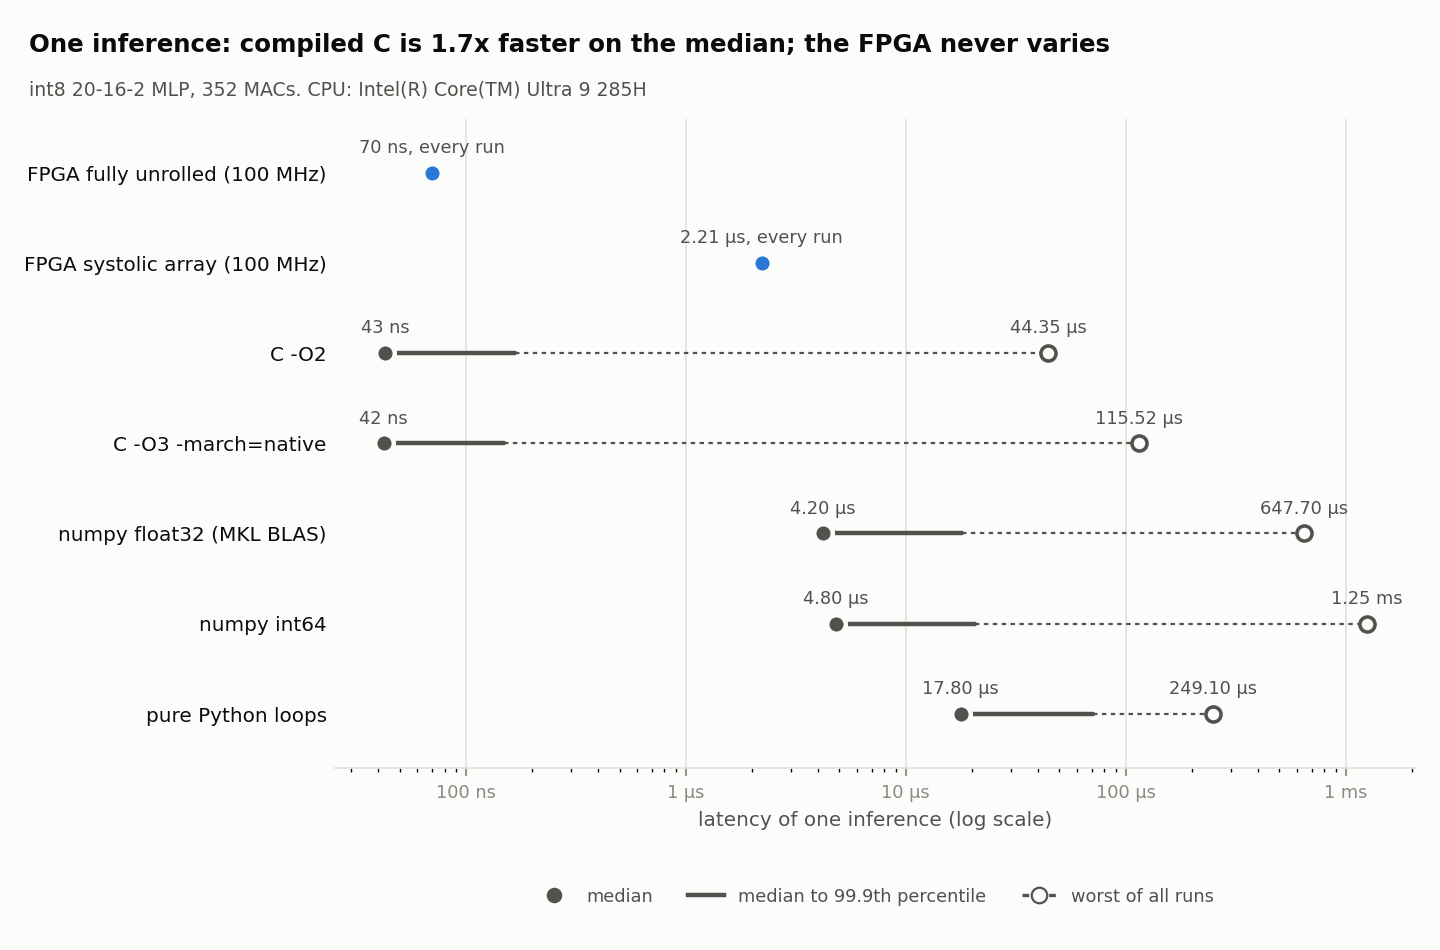
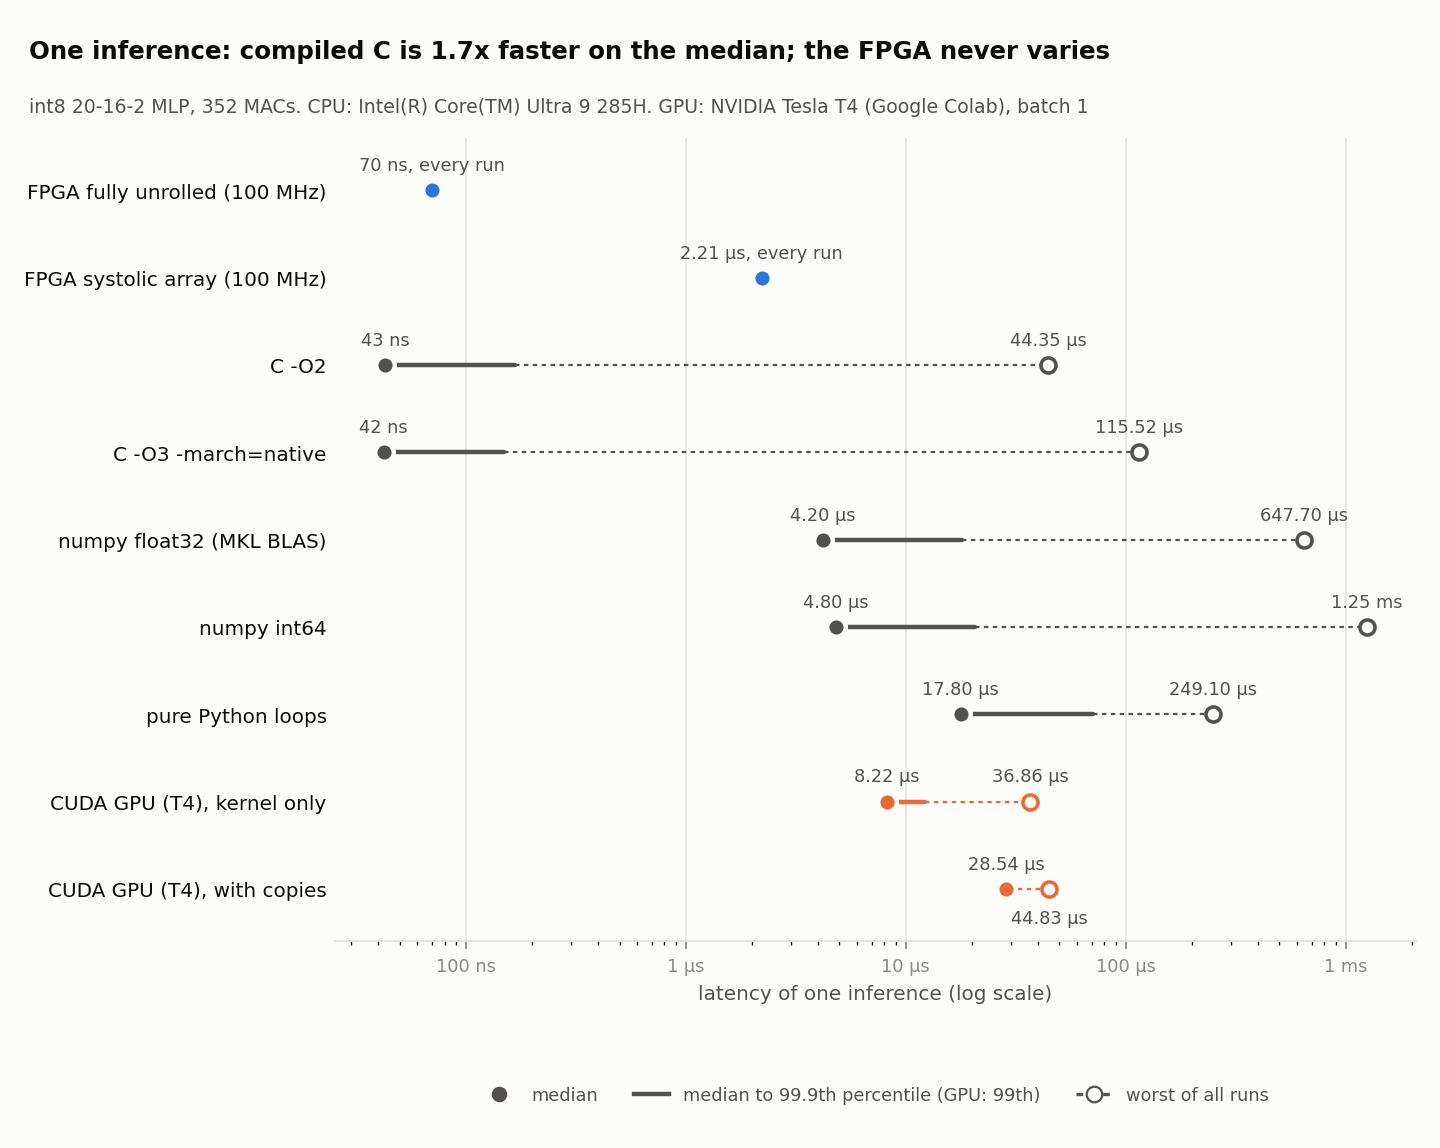
add GPU Colab T4 results, readme section, chart rows, and json

diff --git a/host/benchmark.py b/host/benchmark.py
@@ -175,8 +175,29 @@ def fpga_power_w(engine):
 
 # ---------------------------------------------------------------- main
 
+def gpu_rows():
+    """Batch-1 GPU latency rows from results/gpu_benchmark.json (written by host/gpu/mlp.cu
+    on another machine), or [] if that file isn't there. Only used for the chart."""
+    path = RESULTS / "gpu_benchmark.json"
+    if not path.exists():
+        return [], None
+    gpu = json.loads(path.read_text(encoding="utf-8"))
+    rows = []
+    for key, label in [("kernel", "kernel only"), ("end_to_end", "with copies")]:
+        s = gpu["batch1_latency"][key]
+        rows.append({"name": f"CUDA GPU (T4), {label}", "kind": "gpu",
+                     "p50_ns": s["median_us"] * 1000, "p99_ns": s["p99_us"] * 1000,
+                     "max_ns": s["max_us"] * 1000})
+    return rows, gpu["gpu"]
+
+
 def main():
     sys.stdout.reconfigure(encoding="utf-8", errors="replace")
+    if sys.argv[1:] == ["--replot"]:
+        # redraw results/latency.png from saved results only; nothing is measured
+        plot(json.loads((RESULTS / "benchmark.json").read_text(encoding="utf-8")))
+        print(f"redrew {RESULTS / 'latency.png'} from saved results")
+        return
     port = sys.argv[1] if len(sys.argv) > 1 else None
     results = {"cpu": cpu_name(), "macs_per_inference": MACS, "rows": []}
 
@@ -269,17 +290,20 @@ def plot(results):
     import matplotlib.pyplot as plt
 
     surface, ink, ink2, muted, grid = "#fcfcfb", "#0b0b0b", "#52514e", "#8a8984", "#e4e3df"
-    fpga_color, cpu_color = "#2a78d6", "#52514e"
+    colors = {"fpga": "#2a78d6", "cpu": "#52514e", "gpu": "#eb6834"}
+    cpu_color = colors["cpu"]
 
-    rows = results["rows"][::-1]            # FPGA ends up on top
+    gpu, gpu_name = gpu_rows()
+    rows = (results["rows"] + gpu)[::-1]    # FPGA ends up on top, GPU at the bottom
     fig, ax = plt.subplots(figsize=(9, 0.62 * len(rows) + 1.6), dpi=160)
     fig.patch.set_facecolor(surface)
     ax.set_facecolor(surface)
 
     for y, r in enumerate(rows):
-        color = fpga_color if r["kind"] == "fpga" else cpu_color
-        ax.plot([r["p50_ns"], r["p999_ns"]], [y, y], color=color, lw=2, solid_capstyle="round", zorder=2)
-        ax.plot([r["p999_ns"], r["max_ns"]], [y, y], color=color, lw=1, ls=(0, (2, 2)), zorder=1)
+        color = colors[r["kind"]]
+        tail = r.get("p999_ns", r["p99_ns"])    # the GPU run recorded p99, not p99.9
+        ax.plot([r["p50_ns"], tail], [y, y], color=color, lw=2, solid_capstyle="round", zorder=2)
+        ax.plot([tail, r["max_ns"]], [y, y], color=color, lw=1, ls=(0, (2, 2)), zorder=1)
         varies = r["max_ns"] > r["p50_ns"] * 1.01
         if varies:
             ax.scatter(r["max_ns"], y, s=46, facecolor=surface, edgecolor=color, linewidth=1.6, zorder=3)
@@ -288,8 +312,11 @@ def plot(results):
         ax.annotate(label, (r["p50_ns"], y), xytext=(0, 9), textcoords="offset points",
                     ha="center", fontsize=8, color=ink2)
         if r["max_ns"] > r["p50_ns"] * 1.5:
-            ax.annotate(fmt_ns(r["max_ns"]), (r["max_ns"], y), xytext=(0, 9), textcoords="offset points",
-                        ha="center", fontsize=8, color=ink2)
+            # when the worst case sits close to the median, label it below so the labels don't collide
+            below = r["max_ns"] < r["p50_ns"] * 4
+            ax.annotate(fmt_ns(r["max_ns"]), (r["max_ns"], y), xytext=(0, -9 if below else 9),
+                        textcoords="offset points", ha="center", va="top" if below else "baseline",
+                        fontsize=8, color=ink2)
 
     ax.set_yticks(range(len(rows)))
     ax.set_yticklabels([r["name"] for r in rows], fontsize=9, color=ink)
@@ -309,7 +336,8 @@ def plot(results):
     from matplotlib.lines import Line2D
     handles = [
         Line2D([], [], marker="o", ls="", color=cpu_color, markeredgecolor=surface, markersize=8, label="median"),
-        Line2D([], [], color=cpu_color, lw=2, label="median to 99.9th percentile"),
+        Line2D([], [], color=cpu_color, lw=2,
+               label="median to 99.9th percentile" + (" (GPU: 99th)" if gpu else "")),
         Line2D([], [], marker="o", ls=(0, (2, 2)), color=cpu_color, markerfacecolor=surface, markersize=7,
                label="worst of all runs"),
     ]
@@ -325,8 +353,10 @@ def plot(results):
         title = (f"One inference: compiled C is {best_fpga / best_cpu:.1f}x faster on the median; "
                  "the FPGA never varies")
     fig.text(0.02, 0.965, title, ha="left", va="top", fontsize=11, color=ink, fontweight="bold")
-    fig.text(0.02, 0.915, f"int8 20-16-2 MLP, {MACS} MACs. CPU: {results['cpu']}",
-             ha="left", va="top", fontsize=8.5, color=ink2)
+    subtitle = f"int8 20-16-2 MLP, {MACS} MACs. CPU: {results['cpu']}"
+    if gpu:
+        subtitle += f". GPU: NVIDIA {gpu_name} (Google Colab), batch 1"
+    fig.text(0.02, 0.915, subtitle, ha="left", va="top", fontsize=8.5, color=ink2)
     fig.savefig(RESULTS / "latency.png", facecolor=surface)
     plt.close(fig)
 

diff --git a/README.md b/README.md
@@ -3,7 +3,8 @@
 A neural network trained in Python, quantized to 8-bit integers, and run on custom
 hardware on a Xilinx Artix-7 FPGA (Digilent Basys 3). The hardware gives the same
 answers as the software model, bit for bit, both in simulation and on the board. It is
-benchmarked against the same network running on a CPU in C, NumPy and plain Python.
+benchmarked against the same network running on a CPU in C, NumPy and plain Python, and
+on an NVIDIA GPU in CUDA.
 
 There are two hardware designs for the same network:
 
@@ -16,10 +17,17 @@ Both meet timing at 100 MHz on the `xc7a35tcpg236-1` and have been measured on t
 
 ## Results
 
-![Latency of one inference, FPGA vs CPU](results/latency.png)
+![Latency of one inference: FPGA, CPU and GPU](results/latency.png)
 
-All CPU numbers were measured on an Intel Core Ultra 9 285H. The FPGA numbers are clock
-cycles counted on the chip itself, times the 10 ns clock period.
+The hardware for each set of numbers:
+
+- **CPU:** an Intel Core Ultra 9 285H laptop.
+- **GPU:** an NVIDIA Tesla T4 on Google Colab.
+- **FPGA:** the Basys 3 board. These numbers are clock cycles counted on the chip itself,
+  times the 10 ns clock period.
+
+In the chart, the GPU rows are batch 1. Their solid line runs to the 99th percentile
+rather than the 99.9th, because that is what the GPU run recorded.
 
 | Implementation | Median | Worst seen | Fast FPGA compared |
 |---|---:|---:|---|
@@ -28,8 +36,13 @@ cycles counted on the chip itself, times the 10 ns clock period.
 | C (`-O3 -march=native`) | 42 ns | 116 µs | C is 1.7× faster on the median |
 | NumPy float32 (Intel MKL) | 4.2 µs | 648 µs | 60-90x faster |
 | Pure Python | 17.8 µs | 249 µs | 254× faster |
+| CUDA GPU (T4), kernel only | 8.22 µs | 36.86 µs | 117× faster |
+| CUDA GPU (T4), with copies | 28.54 µs | 44.83 µs | 407× faster |
 
-Full table with percentiles: [results/benchmark.md](results/benchmark.md).
+CPU and FPGA percentiles are in [results/benchmark.md](results/benchmark.md). GPU details
+are in the section below and in [results/gpu_benchmark.json](results/gpu_benchmark.json).
+For the GPU rows, "Worst seen" is the slowest of 10,000 batch-1 runs, and "with copies"
+includes the host-to-device copy of the input and the device-to-host copy of the result.
 
 What the numbers say:
 
@@ -47,6 +60,47 @@ What the numbers say:
 - **The 70 ns is compute only.** The USB-UART round trip to the laptop is about 16 ms, mostly
   the Windows serial driver's buffering. That is why latency is counted on the chip.
   In a real low-latency system, data would come straight into the FPGA's network pins.
+
+### GPU: CUDA on a Google Colab NVIDIA Tesla T4
+
+`host/gpu/mlp.cu` runs the same integer network on the GPU. Each thread computes one whole
+inference, and the weights are held in `__constant__` memory.
+
+The run reported the GPU as a Tesla T4 (compute capability 7.5, 40 SMs), with CUDA
+runtime and driver 13000 (CUDA 13.0). Times were measured with `cudaEvent`, after warmup
+runs, using pinned host memory. Raw results are in
+[results/gpu_benchmark.json](results/gpu_benchmark.json).
+
+**Batch-1 latency (10,000 runs):**
+
+| | Median | p99 | Min | Max |
+|---|---:|---:|---:|---:|
+| Kernel only | 8.22 µs | 12.19 µs | 7.10 µs | 36.86 µs |
+| With host↔device copies | 28.54 µs | 29.63 µs | 13.41 µs | 44.83 µs |
+
+**Batch sweep (500 runs per size).** Throughput uses the median time.
+
+| Batch | Kernel median | Kernel p99 | End-to-end median | End-to-end p99 | Kernel throughput (inf/s) | End-to-end throughput (inf/s) |
+|---:|---:|---:|---:|---:|---:|---:|
+| 1 | 7.01 µs | 12.51 µs | 28.64 µs | 29.09 µs | 1.427e+05 | 3.492e+04 |
+| 16 | 7.01 µs | 12.10 µs | 28.67 µs | 29.34 µs | 2.283e+06 | 5.58e+05 |
+| 256 | 8.19 µs | 9.63 µs | 28.61 µs | 29.31 µs | 3.125e+07 | 8.949e+06 |
+| 4,096 | 9.06 µs | 10.59 µs | 30.69 µs | 39.49 µs | 4.523e+08 | 1.335e+08 |
+| 65,536 | 22.88 µs | 26.78 µs | 184.61 µs | 192.77 µs | 2.864e+09 | 3.55e+08 |
+| 1,048,576 | 182.27 µs | 196.61 µs | 2515.74 µs | 2552.32 µs | 5.753e+09 | 4.168e+08 |
+
+The sweep's batch-1 row comes from its own 500 runs, which is why it differs slightly from
+the 10,000-run latency table above.
+
+At batch 1, the GPU's median kernel time of 8.22 µs for 352 multiply-adds is dominated by
+the cost of launching a kernel, so the FPGA's 70 ns is 117× faster, or 407× once the copies
+to and from the GPU are included. At 1,048,576 inputs the GPU kernel alone reaches
+5.753 × 10⁹ inferences/s, but end to end only 4.168 × 10⁸/s, because the PCIe copies take
+most of the 2,516 µs total and the kernel just 182 µs. The FPGA's fully unrolled pipeline
+could in principle accept a new input every clock cycle (10⁸ inferences/s at 100 MHz), but
+the board design handles one request at a time over UART, so that figure has not been
+measured. The CPU, FPGA (in simulation and on the board) and GPU all produce bit-identical
+outputs, and the GPU also matched the CPU reference on 1,048,576 random inputs.
 
 ## The model
 
@@ -127,6 +181,12 @@ Each step was tested against a bit-exact integer reference before moving on.
 | `sim/top_tb.sv` | full system through the UART pins, for either engine, including the timeout |
 
 3. On the board, `host/run.py` sends the test examples and checks every reply.
+4. On the GPU, `host/gpu/mlp.cu` checks itself before benchmarking. It checks:
+   - the 5 test examples
+   - 1,048,576 repeated copies of them
+   - 1,048,576 random int8 inputs, against a CPU copy of `bench_cpu.c`'s math
+
+   It exits with an error on any mismatch.
 
 ## Repository layout
 
@@ -137,13 +197,15 @@ constraints/  Basys 3 pin assignments
 scripts/      build.tcl: one-command bitstream build
 model/        training, reference generation, frozen int8 weights and hex files
 host/         laptop side: run.py (board test), benchmark.py, bench_cpu.c
-results/      benchmark table, JSON and chart
+host/gpu/     CUDA version: mlp.cu, gen_weights.py (writes weights.h), colab_run.md
+results/      benchmark tables, JSON and chart
 ```
 
 ## Running it
 
 Requirements: Vivado 2025.2 (or similar), Python 3 with `numpy`, `matplotlib` and
-`pyserial`, and gcc for the C baseline. A Basys 3 board is needed for the on-board steps.
+`pyserial`, and gcc for the C baseline. A Basys 3 board is needed for the on-board steps,
+and an NVIDIA GPU with `nvcc` for the GPU benchmark (a free Google Colab T4 works).
 
 **Regenerate the reference files** (optional, they are committed):
 
@@ -184,7 +246,18 @@ python host/benchmark.py COM5    # full benchmark, using the board's live cycle 
 ```
 
 `benchmark.py` without a port runs only the CPU side and uses the last known FPGA cycle
-counts.
+counts. `python host/benchmark.py --replot` redraws `results/latency.png` from the saved
+results without measuring anything. It includes the GPU rows when
+`results/gpu_benchmark.json` is present.
+
+**Run the GPU benchmark.** Run this on a machine with an NVIDIA GPU, from the repo root.
+Step-by-step Colab instructions are in [host/gpu/colab_run.md](host/gpu/colab_run.md).
+
+```
+python3 host/gpu/gen_weights.py                 # optional: regenerate weights.h from model/weights/
+nvcc -O3 -arch=sm_75 -o mlp host/gpu/mlp.cu      # sm_75 = T4; drop -arch for other GPUs
+./mlp                                           # checks correctness, then writes results/gpu_benchmark.json
+```
 
 ## Next steps
 
